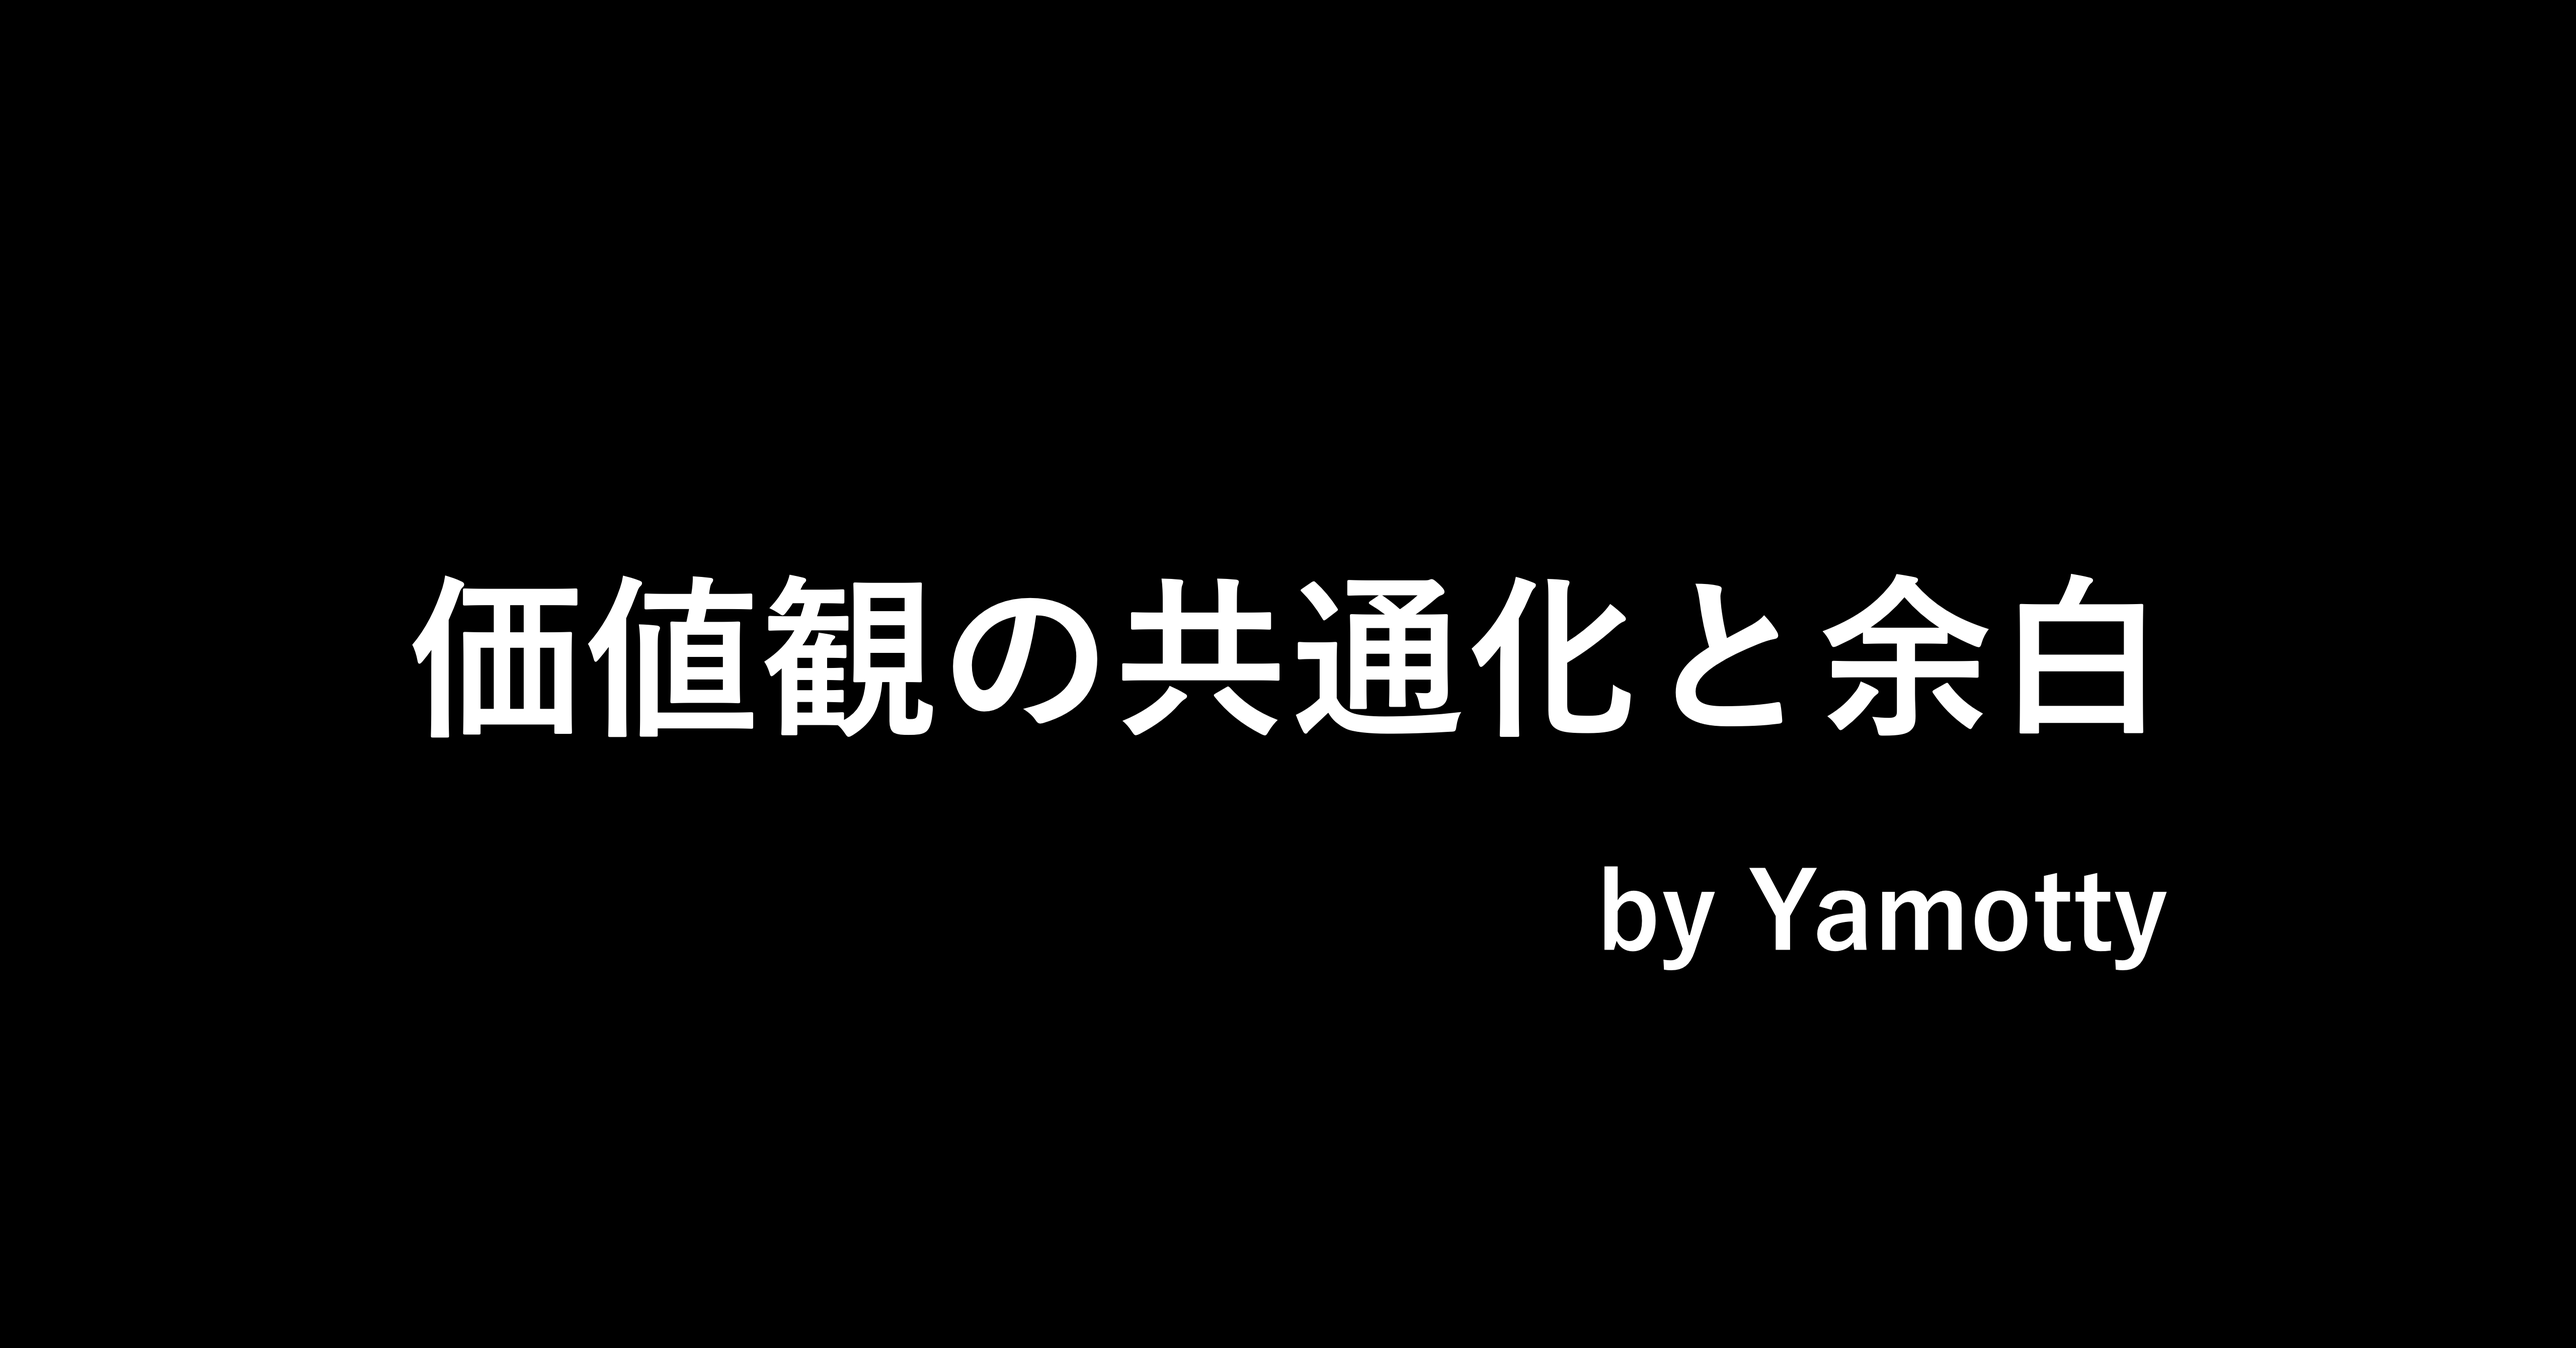
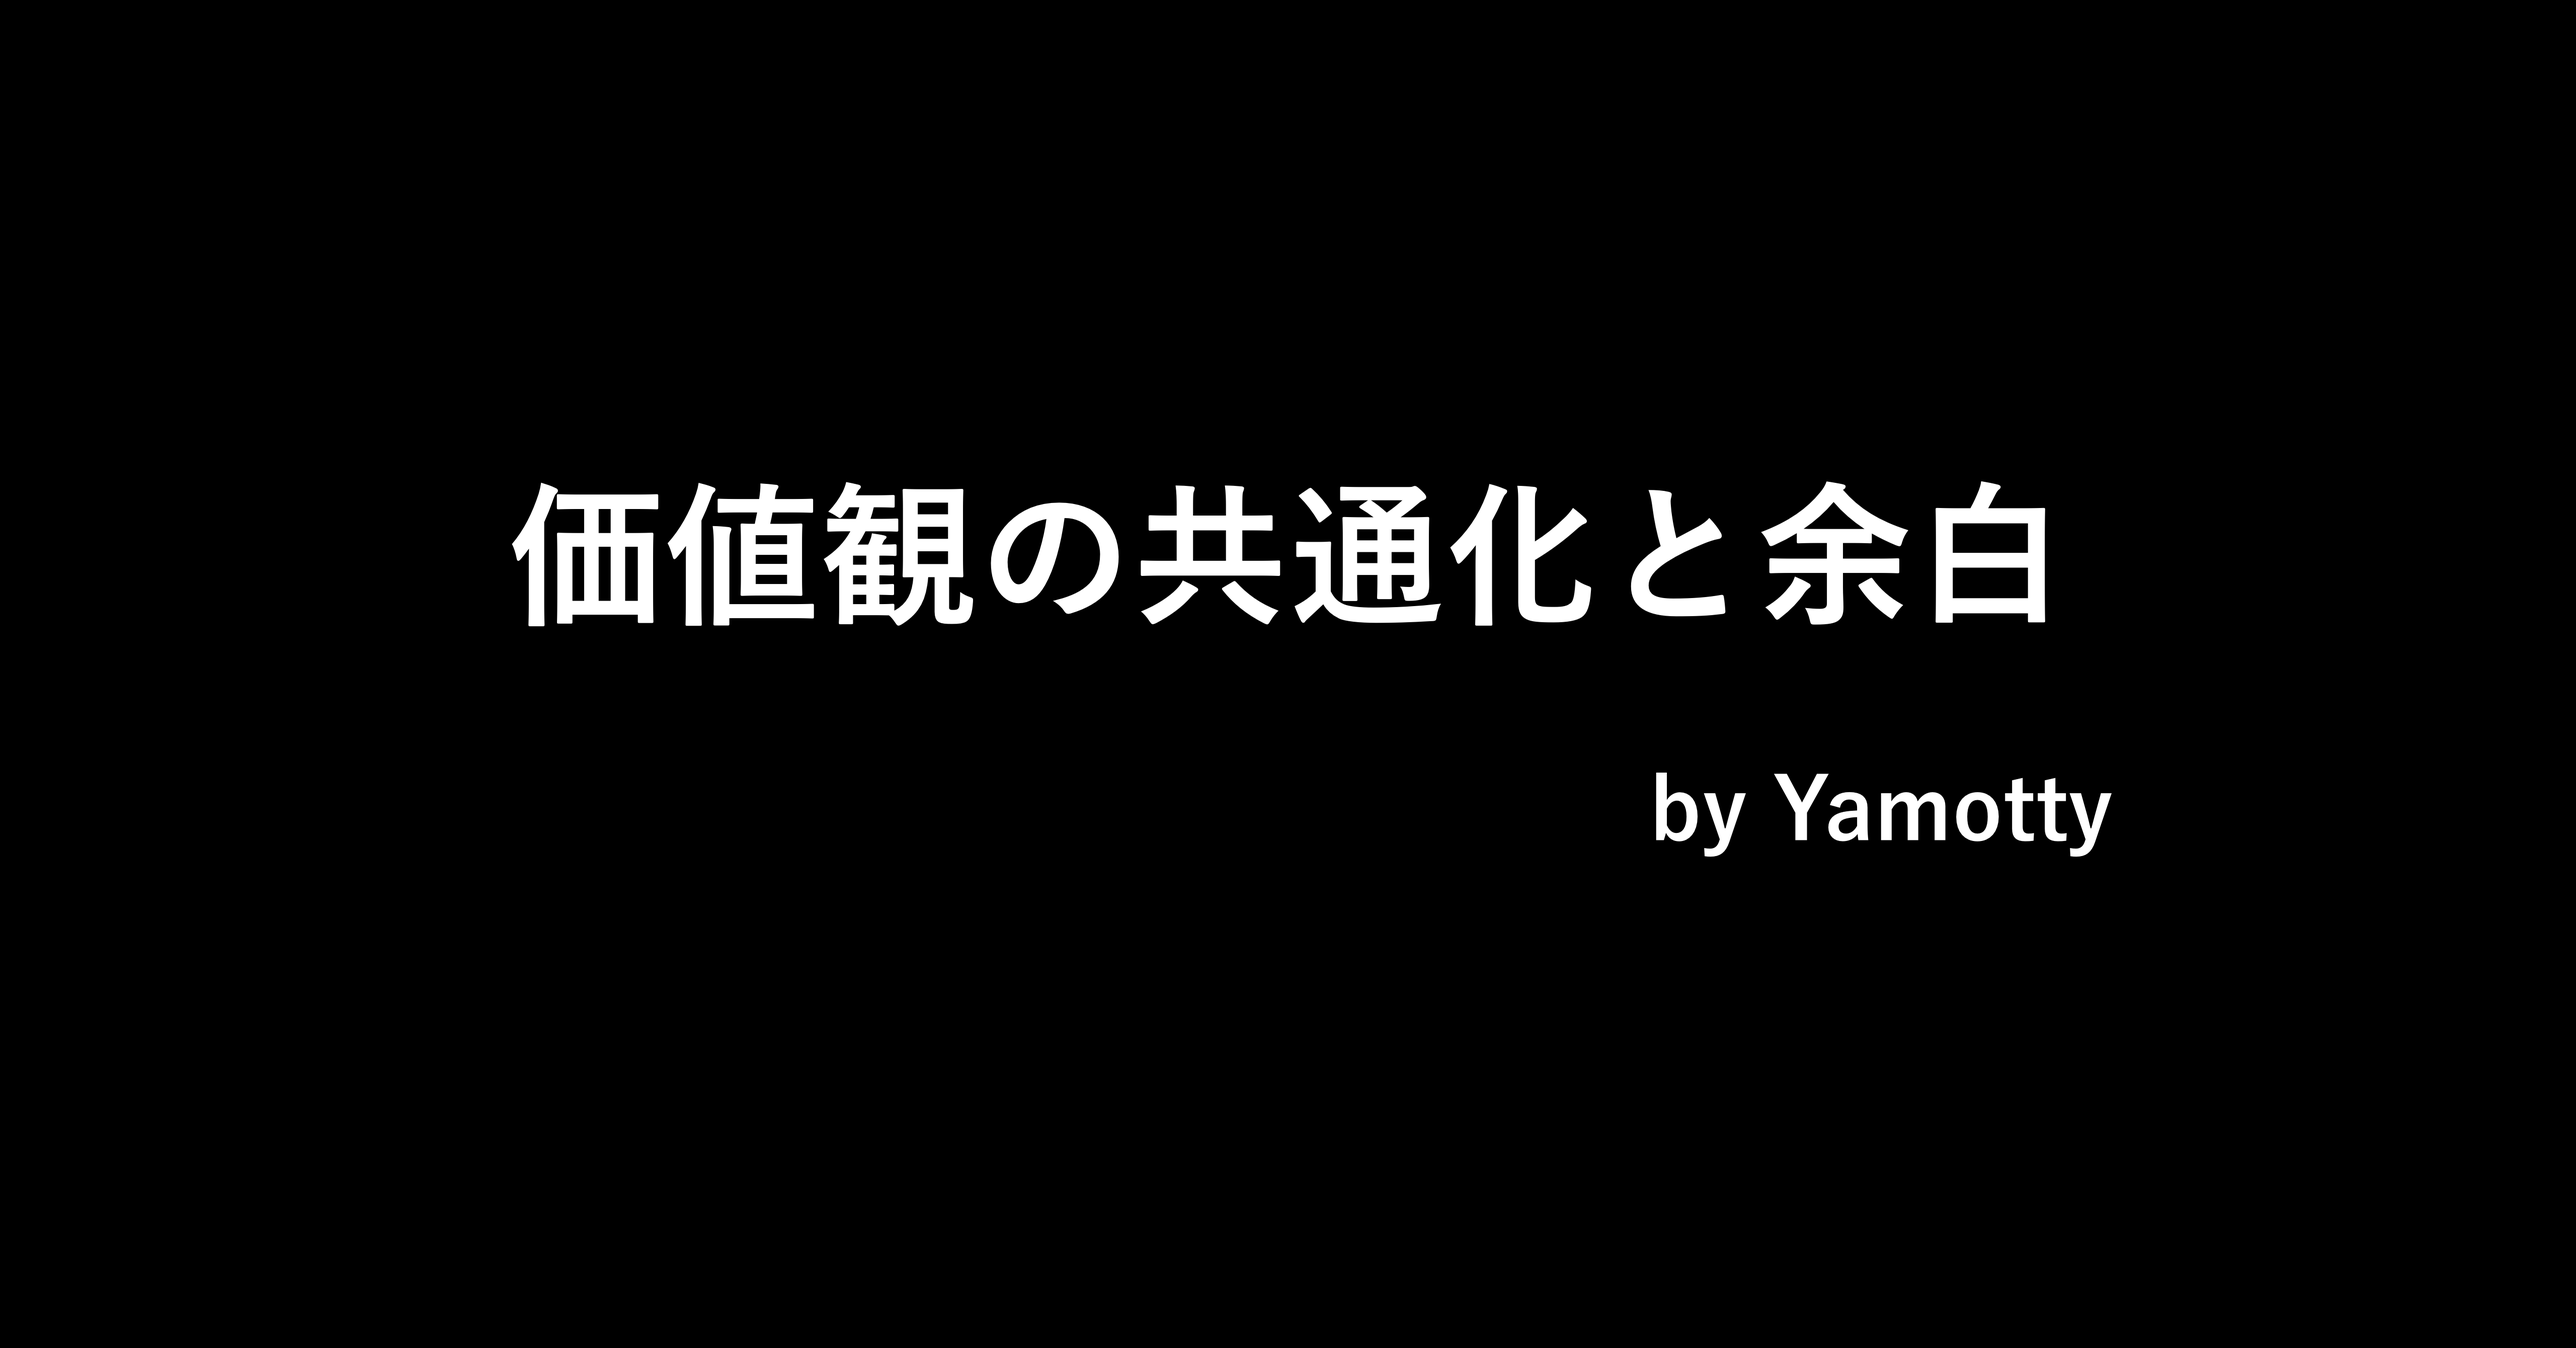
add contents

Changed region(s): [[0.1562, 0.3407, 0.8438, 0.7123]]

diff --git a/content/post/20180521_making-decision.md b/content/post/20180521_making-decision.md
@@ -4,7 +4,7 @@ title: "無思考・意思決定・納得"
 draft: false
 categories: ["Essay", ""]
 description: "そもそも思考は何のためにするのか。それは未来の自分の行動を変えるためではないだろうか。"
-eyecatch: "/images/making-decision.jpg"
+eyecatch: "/images/making-decision.png"
 tags: ["Essay", ""]
 author: "Yamotty"
 ---
